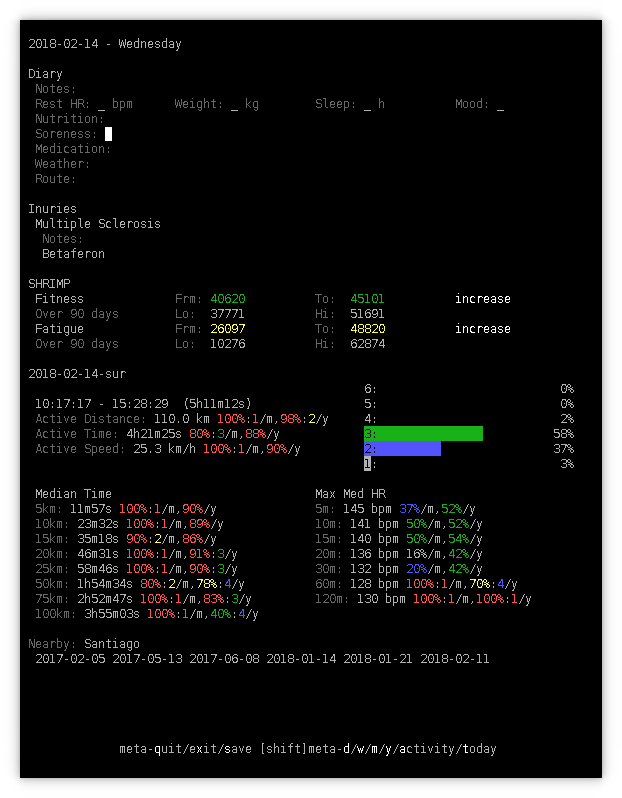
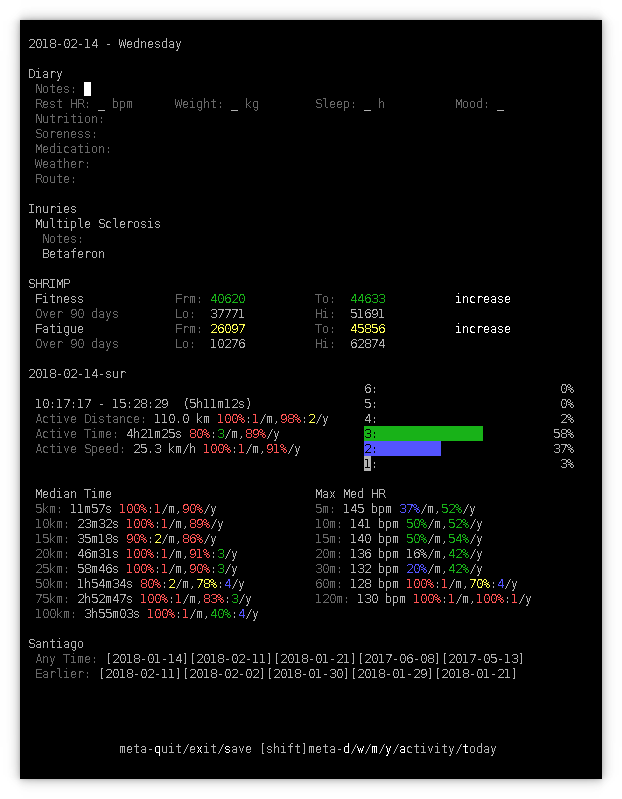
nearby as links

diff --git a/ch2/stoats/display/__init__.py b/ch2/stoats/display/__init__.py
@@ -1,44 +1,48 @@
+
 import datetime as dt
 from abc import abstractmethod
 
-from ch2.lib.date import local_date_to_time
-from ch2.squeal import ActivityGroup, ActivityJournal
-
 from .. import BasePipeline
+from ...lib.date import local_date_to_time
 from ...lib.date import to_date
-from ...squeal.tables.pipeline import Pipeline
+from ...squeal import ActivityGroup, ActivityJournal
+from ...squeal.tables.pipeline import Pipeline, PipelineType
 
 
-def build_pipeline(log, session, type, factory, date, schedule=None):
+def display_pipeline(log, session, factory, date, diary, schedule=None):
     '''
     schedule only sent for summary views.
     '''
     date = to_date(date)   # why is this needed?
-    for cls, args, kargs in Pipeline.all(log, session, type):
+    for cls, args, kargs in Pipeline.all(log, session, PipelineType.DIARY):
         log.info('Building %s (%s, %s)' % (cls, args, kargs))
-        yield from cls(log, *args, **kargs).build(session, factory, date, schedule=schedule)
+        yield from cls(log, *args, diary=diary, **kargs).display(session, factory, date, schedule=schedule)
 
 
 class Displayer(BasePipeline):
 
-    def build(self, s, f, date, schedule=None):
+    def _on_init(self, *args, diary=None, **kargs):
+        self._diary = diary
+        super()._on_init(*args, **kargs)
+
+    def display(self, s, f, date, schedule=None):
         if schedule:
-            yield from self._build_schedule(s, f, date, schedule=schedule)
+            yield from self._display_schedule(s, f, date, schedule=schedule)
         else:
-            yield from self._build_date(s, f, date)
+            yield from self._display_date(s, f, date)
 
     @abstractmethod
-    def _build_schedule(self, s, f, date, schedule=None):
+    def _display_schedule(self, s, f, date, schedule=None):
         raise NotImplementedError()
 
     @abstractmethod
-    def _build_date(self, s, f, date):
+    def _display_date(self, s, f, date):
         raise NotImplementedError()
 
 
 class JournalDiary(Displayer):
 
-    def _build_date(self, s, f, date):
+    def _display_date(self, s, f, date):
         start = local_date_to_time(date)
         finish = start + dt.timedelta(days=1)
         for activity_group in s.query(ActivityGroup).order_by(ActivityGroup.sort).all():
@@ -47,8 +51,8 @@ class JournalDiary(Displayer):
                            ActivityJournal.start < finish,
                            ActivityJournal.activity_group == activity_group). \
                     order_by(ActivityJournal.start).all():
-                yield from self._journal_date(s, journal, date)
+                yield from self._journal_date(s, f, journal, date)
 
     @abstractmethod
-    def _journal_date(self, s, ajournal, date):
+    def _journal_date(self, s, f, ajournal, date):
         raise NotImplementedError()

diff --git a/ch2/stoats/display/nearby.py b/ch2/stoats/display/nearby.py
@@ -2,14 +2,15 @@
 from sqlalchemy import or_, desc, distinct
 from sqlalchemy.orm import aliased
 from sqlalchemy.sql.functions import min
-from urwid import Pile, Text
+from urwid import Pile, Text, Columns
 
 from . import JournalDiary
-from ...lib.date import to_time
+from ...lib.date import to_time, time_to_local_date
 from ...lib.utils import label
 from ...squeal import ActivityJournal
 from ...squeal import ActivitySimilarity
 from ...uweird.tui.decorators import Indent
+from ...uweird.tui.widgets import SquareButton, ColSpace, ColText
 
 
 def fmt(time):
@@ -18,29 +19,34 @@ def fmt(time):
 
 class NearbyDiary(JournalDiary):
 
-    def _build_schedule(self, s, f, date, schedule=None):
+    def _display_schedule(self, s, f, date, schedule=None):
         yield from []
 
-    def _journal_date(self, s, ajournal, date):
+    def _journal_date(self, s, f, ajournal, date):
         for constraint in [c[0] for c in
                            s.query(distinct(ActivitySimilarity.constraint)).
                                    order_by(ActivitySimilarity.constraint).all()]:
             rows = []
-            rows += self._any_time(s, ajournal, constraint)
-            rows += self._earlier(s, ajournal, constraint)
+            rows += self._any_time(s, f, ajournal, constraint)
+            rows += self._earlier(s, f, ajournal, constraint)
             if rows:
                 yield Pile([Text(constraint),
                             Indent(Pile(rows))])
 
-    def _any_time(self, s, ajournal, constraint):
-        data = nearby_any_time(s, ajournal, constraint=constraint)
-        if data:
-            yield Text([label('Any Time: '), ' '.join(fmt(d.start) for d in data)])
+    def _on_press(self, w, time):
+        self._diary._change_date(time_to_local_date(time))
 
-    def _earlier(self, s, ajournal, constraint):
-        data = nearby_earlier(s, ajournal, constraint=constraint)
+    def _buttons(self, f, title, data):
         if data:
-            yield Text([label('Recent: '), ' '.join(fmt(d.start) for d in data)])
+            btns = [(len(fmt(d.start)) + 2,
+                     f(SquareButton(fmt(d.start), on_press=self._on_press, user_data=d.start))) for d in data]
+            yield Columns([ColText('%s: ' % title, label), *btns, ColSpace()])
+
+    def _any_time(self, s, f, ajournal, constraint):
+        yield from self._buttons(f, 'Any Time', nearby_any_time(s, ajournal, constraint=constraint))
+
+    def _earlier(self, s, f, ajournal, constraint):
+        yield from self._buttons(f, 'Earlier', nearby_earlier(s, ajournal, constraint=constraint))
 
 
 def single_constraint(s, ajournal):

diff --git a/ch2/command/diary.py b/ch2/command/diary.py
@@ -14,7 +14,7 @@ from ..lib.widgets import DateSwitcher
 from ..squeal.database import add
 from ..squeal.tables.pipeline import PipelineType
 from ..squeal.tables.topic import Topic, TopicJournal
-from ..stoats.display import build_pipeline
+from ..stoats.display import display_pipeline
 from ..uweird.fields import PAGE_WIDTH
 from ..uweird.fields.summary import summary_columns
 from ..uweird.tui.decorators import Border, Indent
@@ -157,7 +157,7 @@ class DailyDiary(Diary):
         return tjournal
 
     def _display_pipeline(self, s, f):
-        yield from build_pipeline(self._log, s, PipelineType.DIARY, f, self._date)
+        yield from display_pipeline(self._log, s, f, self._date, self)
 
 
 class ScheduleDiary(Diary):
@@ -167,12 +167,12 @@ class ScheduleDiary(Diary):
 
     def __init__(self, log, db, date, schedule):
         self._schedule = schedule
-        super().__init__(log, db, self._new_date(date))
+        super().__init__(log, db, self._refine_new_date(date))
 
     def _header(self):
         return Text(self._date.strftime('%Y-%m-%d') + ' - Summary for %s' % self._schedule.describe())
 
-    def _new_date(self, date):
+    def _refine_new_date(self, date):
         return self._schedule.start_of_frame(date)
 
     def _topics(self, s):
@@ -191,5 +191,5 @@ class ScheduleDiary(Diary):
         yield from summary_columns(self._log, s, f, self._date, self._schedule, names)
 
     def _display_pipeline(self, s, f):
-        yield from build_pipeline(self._log, s, PipelineType.DIARY, f, self._date, schedule=self._schedule)
+        yield from display_pipeline(self._log, s, PipelineType.DIARY, f, self._date, self, schedule=self._schedule)
 

diff --git a/ch2/lib/widgets.py b/ch2/lib/widgets.py
@@ -75,14 +75,14 @@ class DateSwitcher(App):
         if key.startswith('meta'):
             c = key[-1]
             if c.lower() in (DAY, WEEK, MONTH, YEAR, 't'):
-                self._change_date(c)
+                self._next_prev_date(c)
                 return
             if c.lower() == 'a':
-                self._change_activity(c)
+                self._next_prev_activity(c)
                 return
         return super().keypress(size, key)
 
-    def _change_activity(self, c):
+    def _next_prev_activity(self, c):
         s = self._session
         q = s.query(ActivityJournal)
         time = local_date_to_time(self._date)
@@ -92,20 +92,22 @@ class DateSwitcher(App):
             q = q.filter(ActivityJournal.start >= (time + dt.timedelta(days=1))).order_by(ActivityJournal.start)
         journal = q.limit(1).one_or_none()
         if journal:
-            self.__date = self._new_date(time_to_local_date(journal.start))
-            self.rebuild()
+            self._change_date(time_to_local_date(journal.start))
 
-    def _change_date(self, c):
+    def _next_prev_date(self, c):
         if c == 't':
             date = dt.date.today()
         else:
             delta = (-1 if c == c.lower() else 1, c.lower())
             self.save()
             date = add_date(self.__date, delta)
-        self.__date = self._new_date(date)
+        self._change_date(date)
+
+    def _change_date(self, date):
+        self.__date = self._refine_new_date(date)
         self.rebuild()
 
-    def _new_date(self, date):
+    def _refine_new_date(self, date):
         '''
         Hook for subclasses
         '''

diff --git a/ch2/stoats/display/activity.py b/ch2/stoats/display/activity.py
@@ -18,7 +18,7 @@ HRZ_WIDTH = 30
 
 class ActivityDiary(JournalDiary):
 
-    def _journal_date(self, s, ajournal, date):
+    def _journal_date(self, s, f, ajournal, date):
         zones = build_zones(s, ajournal, HRZ_WIDTH)
         details = Pile(self.__active_date(s, ajournal, date))
         yield Pile([
@@ -66,7 +66,7 @@ class ActivityDiary(JournalDiary):
     def __format_value(self, sjournal, date):
         return ['%s ' % sjournal.formatted()] + sjournal.measures_as_text(date)
 
-    def _build_schedule(self, s, f, date, schedule=None):
+    def _display_schedule(self, s, f, date, schedule=None):
         columns = list(self.__schedule_fields(s, f, date, schedule))
         if columns:
             yield Pile([Text('Activities'),

diff --git a/ch2/stoats/display/segment.py b/ch2/stoats/display/segment.py
@@ -18,7 +18,7 @@ from ...uweird.tui.decorators import Indent
 
 class SegmentDiary(Displayer):
 
-    def _build_date(self, s, f, date):
+    def _display_date(self, s, f, date):
         # import pdb; pdb.set_trace()
         tomorrow = local_date_to_time(date + dt.timedelta(days=1))
         today = local_date_to_time(date)
@@ -57,7 +57,7 @@ class SegmentDiary(Displayer):
         else:
             return None
 
-    def _build_schedule(self, s, f, date, schedule=None):
+    def _display_schedule(self, s, f, date, schedule=None):
         rows = []
         for agroup in s.query(ActivityGroup).order_by(ActivityGroup.sort).all():
             group_rows = []

diff --git a/ch2/stoats/display/monitor.py b/ch2/stoats/display/monitor.py
@@ -12,7 +12,7 @@ from ...uweird.tui.decorators import Indent
 
 class MonitorDiary(Displayer):
 
-    def _build_date(self, s, f, date):
+    def _display_date(self, s, f, date):
         columns = self.__fields(s, date)
         if columns:
             yield Pile([Text('Monitor'),
@@ -33,7 +33,7 @@ class MonitorDiary(Displayer):
         else:
             return None
 
-    def _build_schedule(self, s, f, date, schedule=None):
+    def _display_schedule(self, s, f, date, schedule=None):
         columns = list(self.__schedule_fields(s, f, date, schedule))
         if columns:
             yield Pile([Text('Monitor'),

diff --git a/ch2/stoats/display/impulse.py b/ch2/stoats/display/impulse.py
@@ -18,10 +18,10 @@ from ...uweird.tui.decorators import Indent
 
 class ImpulseDiary(Displayer):
 
-    def _build_date(self, s, f, date):
-        yield from self._build_schedule(s, f, date, schedule=Schedule('d'))
+    def _display_date(self, s, f, date):
+        yield from self._display_schedule(s, f, date, schedule=Schedule('d'))
 
-    def _build_schedule(self, s, f, date, schedule=None):
+    def _display_schedule(self, s, f, date, schedule=None):
 
         fitness = self._assert_karg('fitness')
         fatigue = self._assert_karg('fatigue')

diff --git a/tests/test_activities.py b/tests/test_activities.py
@@ -39,8 +39,8 @@ def test_activities():
 
         with db.session_context() as s:
             n = s.query(count(StatisticJournal.id)).scalar()
-            # assert n == 14698, n
-            assert n == 25233, n
+#            assert n == 25233, n
+            assert n == 25695, n
             journal = s.query(ActivityJournal).one()
             assert journal.start != journal.finish
 

diff --git a/ch2/uweird/tui/widgets.py b/ch2/uweird/tui/widgets.py
@@ -84,11 +84,14 @@ class Nullable(FocusWrap):
         emit_signal(self, 'change', self, value)
 
 
-def ColText(text):
+def ColText(text, format=None):
     """
     Shorthand for fixed width, literal column.
     """
-    return len(text), Text(text)
+    n = len(text)
+    if format:
+        text = [format(text)]
+    return n, Text(text)
 
 
 def ColSpace(weight=1):

diff --git a/docs/nearby.md b/docs/nearby.md
@@ -180,19 +180,15 @@ comment on double-counting above).
 
 ### Diary
 
-Within Choochoo's diary the nearby activities are listed as dates.
-These are easily copied and pasted onto the command line, leading to
-the appropriate diary entry.
+Choochoo's diary displays both "closest" matches and "most recent"
+matches, based on the similarity data.  The grouping is not used here.
+Instead, similarity measures with a cut-off provides a more flexible
+set of references.
 
 ![](nearby-diary.png)
 
-See the near-last lines, "Nearby: Santiago".
-
-It might be possible to convert these to "hyperlinks" using Urwid in a
-later release.
-
-*UPDATE:* It was more useful to provide a list of both "closest"
-matches and "most recent" matches, based on the similarity data.
+See the near-last lines, under "Santiago".  These are "links" that
+display the appropriate diary page when selected.
 
 ## Appendix - DIY
 
